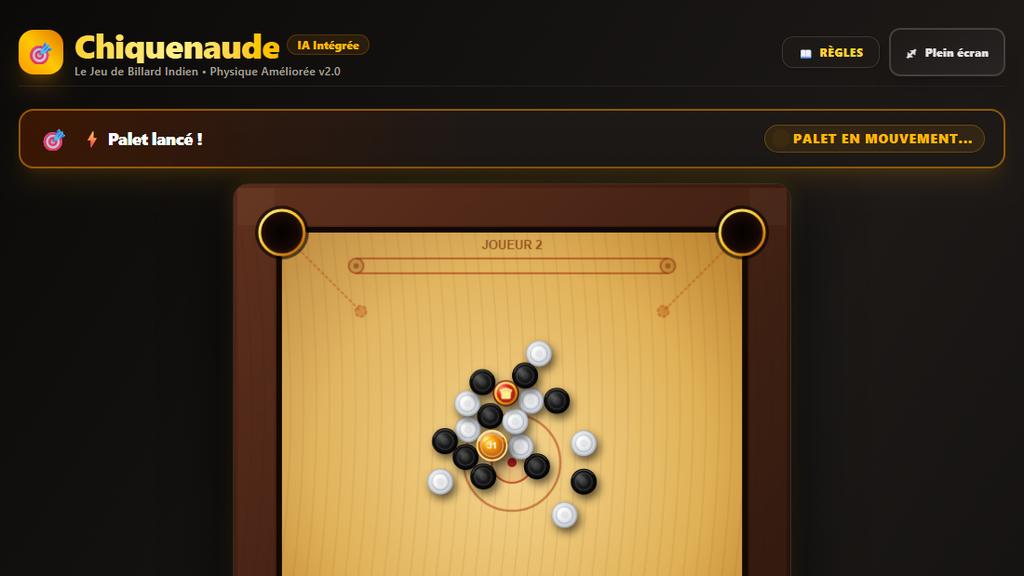
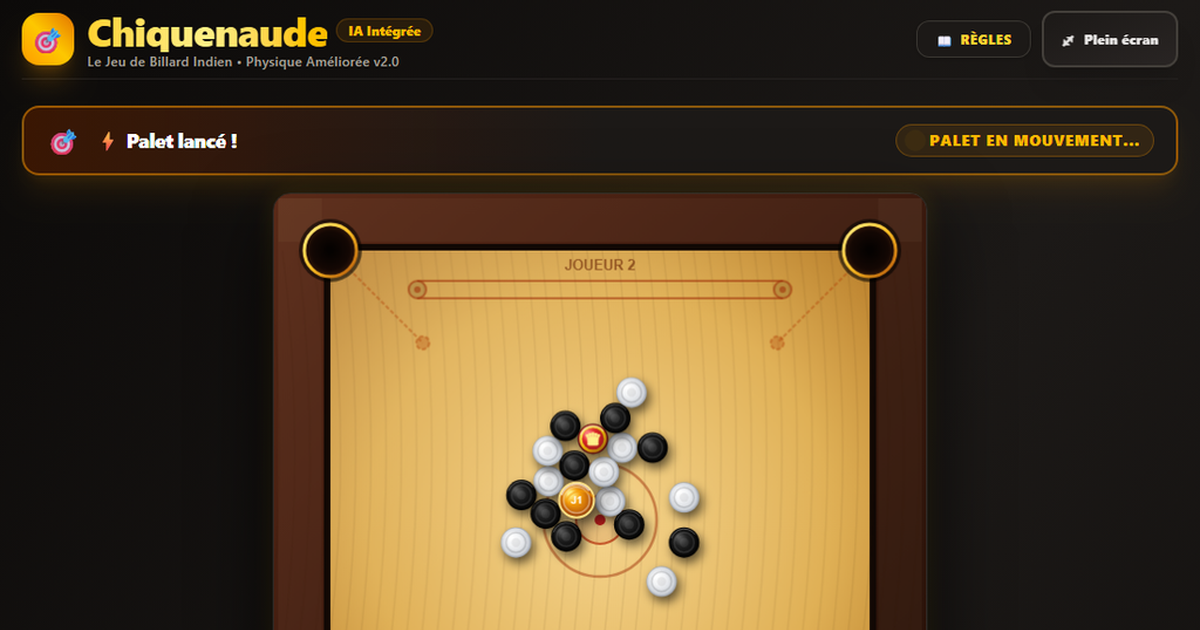
Open Graph : image 1200 x 630 et metadonnees completes

Changed region(s): [[0.0, 0.0, 1.0, 0.5], [0.4062, 0.5938, 0.5938, 0.9688]]

diff --git a/index.html b/index.html
@@ -9,13 +9,17 @@
     <meta property="og:type" content="website" />
     <meta property="og:title" content="Chiquenaude, le jeu de palets à la pichenette" />
     <meta property="og:description" content="Un carrom complet dans le navigateur. Visez, tirez, empochez vos palets et capturez la reine avant l'adversaire. Direct dans le navigateur." />
-    <meta property="og:image" content="https://games.hylst.fr/chiquenaude/og-image.png" />
+    <meta property="og:image" content="https://games.hylst.fr/chiquenaude/og-image.png?v=2" />
+    <meta property="og:image:type" content="image/png" />
+    <meta property="og:image:width" content="1200" />
+    <meta property="og:image:height" content="630" />
+    <meta property="og:image:alt" content="Chiquenaude, le jeu de palets à la pichenette" />
     <meta property="og:url" content="https://games.hylst.fr/chiquenaude/" />
     <meta property="og:site_name" content="Hylst.Games" />
     <meta name="twitter:card" content="summary_large_image" />
     <meta name="twitter:title" content="Chiquenaude, le jeu de palets à la pichenette" />
     <meta name="twitter:description" content="Un carrom complet dans le navigateur. Visez, tirez, empochez vos palets et capturez la reine." />
-    <meta name="twitter:image" content="https://games.hylst.fr/chiquenaude/og-image.png" />
+    <meta name="twitter:image" content="https://games.hylst.fr/chiquenaude/og-image.png?v=2" />
     <meta name="robots" content="index, follow" />
     <meta name="theme-color" content="#1c1917" />
     <link rel="canonical" href="https://games.hylst.fr/chiquenaude/" />
